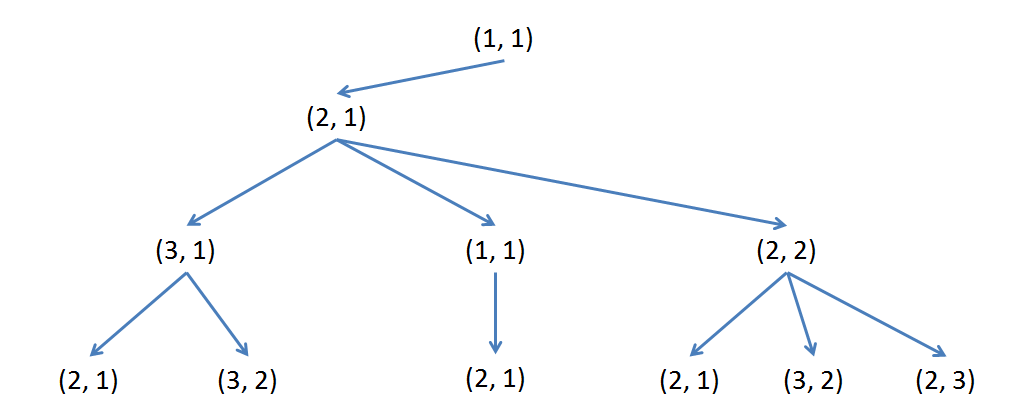
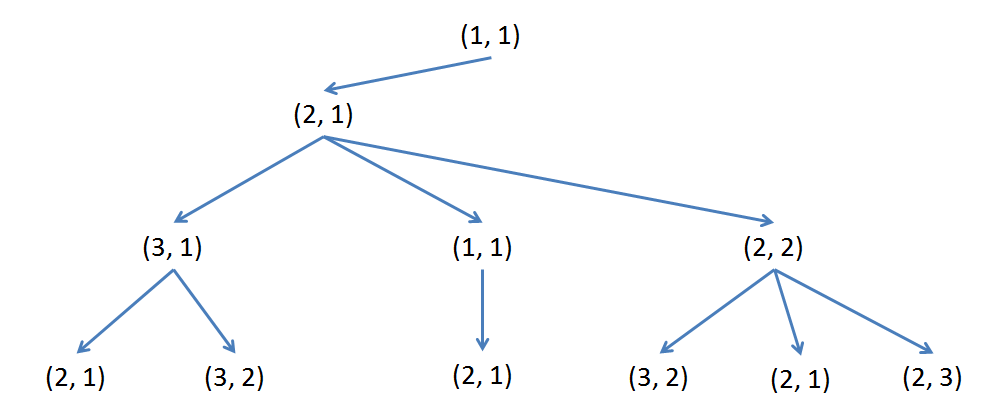
- Intermediary commit week 2 cs 161

diff --git a/classes/spring-2014/cs-161/week-2.html b/classes/spring-2014/cs-161/week-2.html
@@ -250,15 +250,90 @@
               <p class='definition'>Uninformed search strategies are therefore distinguished by the <strong>order</strong> in which nodes are expanded along the frontier.</p>
               <br/>
               <p>We'll begin by looking at breadth-first search.</p>
-              <p class='toolkit'><strong>Breadth-first search</strong> expands nodes level-by-level, always expanding nodes at depth D before expanding *any* nodes at depth (D + 1).</p>
+              <p class='toolkit'><strong>Breadth-first search</strong> expands nodes level-by-level, always expanding the *shallowest* node on the fronteir 
+                (i.e., always expanding nodes at depth D before expanding *any* nodes at depth (D + 1).
+              </p>
               <br/>
               <p>So, take this partial search tree for example, and determine its breadth-first search expansion order:</p>
               <div class='text-center fit-pres'>
                 <img src='../../../assets/images/spring-2014/cs-161/week-2/search-4.PNG' />
               </div>
               <br/>
-              <p class='question' name='search-q5'>What is the breadth-first expansion order for this search tree (assume a left-to-right preference per level)?</p>
-              <p class='answer' name='search-q5'>(1, 1), (2, 1), (3, 1), (1, 1), (2, 2), (2, 1), (3, 2), (2, 1), (2, 1), (3, 2), (2, 3)</p>
+              <p class='question' name='search-q5'>What is the breadth-first expansion order for this search tree (assume an expansion order of Right, Down, Left, Up preference per level)?</p>
+              <p class='answer' name='search-q5'>(1, 1), (2, 1), (3, 1), (1, 1), (2, 2), (2, 1), (3, 2), (2, 1), (3, 2), (2, 1), (2, 3)</p>
+              <br/>
+              <p>We'll need some tools for evaluating a particular search strategy, and we can start by defining some common characteristics of a search tree:</p>
+              <p class='definition'>The <strong>branching factor (b)</strong> of a search strategy is the maximum number of children a node can generate when expanded.</p>
+              <p class='definition'>The <strong>depth (d)</strong> of a search strategy is the number of nodes expanded from the root to the shallowest goal node.</p>
+              <br/>
+              <p>So if we expand a few more nodes on our frontier from the previous breadth-first search and then reach a goal (as seen below):</p>
+              <div class='text-center fit-pres'>
+                <img src='../../../assets/images/spring-2014/cs-161/week-2/search-5.PNG' />
+              </div>
+              <br/>
+              <p class='question' name='search-q6'>What are the values for b and d in the above tree?</p>
+              <p class='answer' name='search-q6'>b = 4 because no node could possibly have more than 4 children<br/>d = 4 because it took 4 expansions from the root to reach the nearest goal state</p>
+              <br/>
+              <p>Using the notions of branching factor and depth, we can assess four metrics for search strategy performance:</p>
+              <p class='definition'><strong>Time complexity</strong> judges how long our search will take to find a solution based on some assymptotic analysis of a problem's search space (often in terms
+                of b and d).
+              </p>
+              <br/>
+              <p>In other words, we can think of how many nodes need to be expanded before we find a solution.</p>
+              <p>Let's consider the following abstract representation of a complete search tree:</p>
+              <div class='text-center fit-pres'>
+                <img src='../../../assets/images/spring-2014/cs-161/week-2/search-6.PNG' />
+              </div>
+              <br/>
+              <p>How many nodes have to be expanded at depth 0?</p>
+              <p>How many nodes have to be expanded at depth 1?</p>
+              <p>How many nodes have to be expanded at depth 2?</p>
+              <p>How many nodes have to be expanded at depth d?</p>
+              <p class='question' name='search-q7'>What is the time complexity for breadth first search in big-O notation?</p>
+              <p class='answer' name='search-q7'>O(1 + b + b^2 + b^3 + ... + b^d) = O(b^d) because b^d is the highest degree in the polynomial</p>
+              <br/>
+              <p class='definition'><strong>Space complexity</strong> is a measure of how many states we need to keep in memory at any given time for our search strategy.</p>
+              <br/>
+              <p>So, if we look at our abstract breadth-first search representation again, are we allowed to delete any states / branches from memory while we're exploring the frontier?</p>
+              <p>How many nodes have to be generated at depth 0?</p>
+              <p>How many nodes have to be generated at depth 1?</p>
+              <p>How many nodes have to be generated at depth 2?</p>
+              <p>How many nodes have to be generated at depth d?</p>
+              <p class='question' name='search-q8'>What is the space complexity for breadth first search in big-O notation?</p>
+              <p class='answer' name='search-q8'>O(b + b^2 + b^3 + ... + b^d) = O(b^d) because b^d is the highest degree in the polynomial</p>
+              <br/>
+              <p class='definition'>
+                <strong>Completeness</strong> is a property of a search strategy that asks: &quot;If a solution exists in the search space, is this search strategy guaranteed to find it?&quot;
+              </p>
+              <br/>
+              <p>Now consider breadth-first search and how it expands level-by-level...</p>
+              <p class='question' name='search-q9'>Is breadth-first search complete?</p>
+              <p class='answer' name='search-q9'>Yes! If a solution exists in the search space, then expanding level by level is sure to find it?</p>
+              <br/>
+              <p class='example'>Prove that breadth-first search is complete.</p>
+              <br/>
+              <p class='definition'><strong>Optimality</strong> is a measure for a search that asks if it will always find the *optimal* solution to a problem (i.e., the solution with the least cost).</p>
+              <p>Let's look at this in a bit...</p>
+              
+              <br/>
+              <p class='definition'><strong>Depth-first search</strong> is a search strategy that expands the deepest node in the current frontier of a search tree.</p>
+              <br/>
+              <p>So, take this partial search tree for example, and determine its depth-first search expansion order:</p>
+              <div class='text-center fit-pres'>
+                <img src='../../../assets/images/spring-2014/cs-161/week-2/search-4.PNG' />
+              </div>
+              <br/>
+              <p class='question' name='search-q10'>What is the depth-first expansion order for this search tree (assume an expansion order of Right, Down, Left, Up preference per level)?</p>
+              <p class='answer' name='search-q10'>(1, 1), (2, 1), (3, 1), (2, 1), (3, 2), (1, 1), (2, 1), (2, 2), (3, 2), (2, 1), (2, 3)</p>
+              <br/>
+              <p>Let's return to our maze pathfinding example...</p>
+              <p class='debug'>What will happen with standard breadth-first search in our partial search tree, pictured below?</p>
+              <br/>
+              <div class='text-center fit-pres'>
+                <img src='../../../assets/images/spring-2014/cs-161/week-2/search-7.PNG' />
+              </div>
+              <br/>
+              <p>...errr, that's kind of an issue...</p>
             </div>
             <hr/>
             
